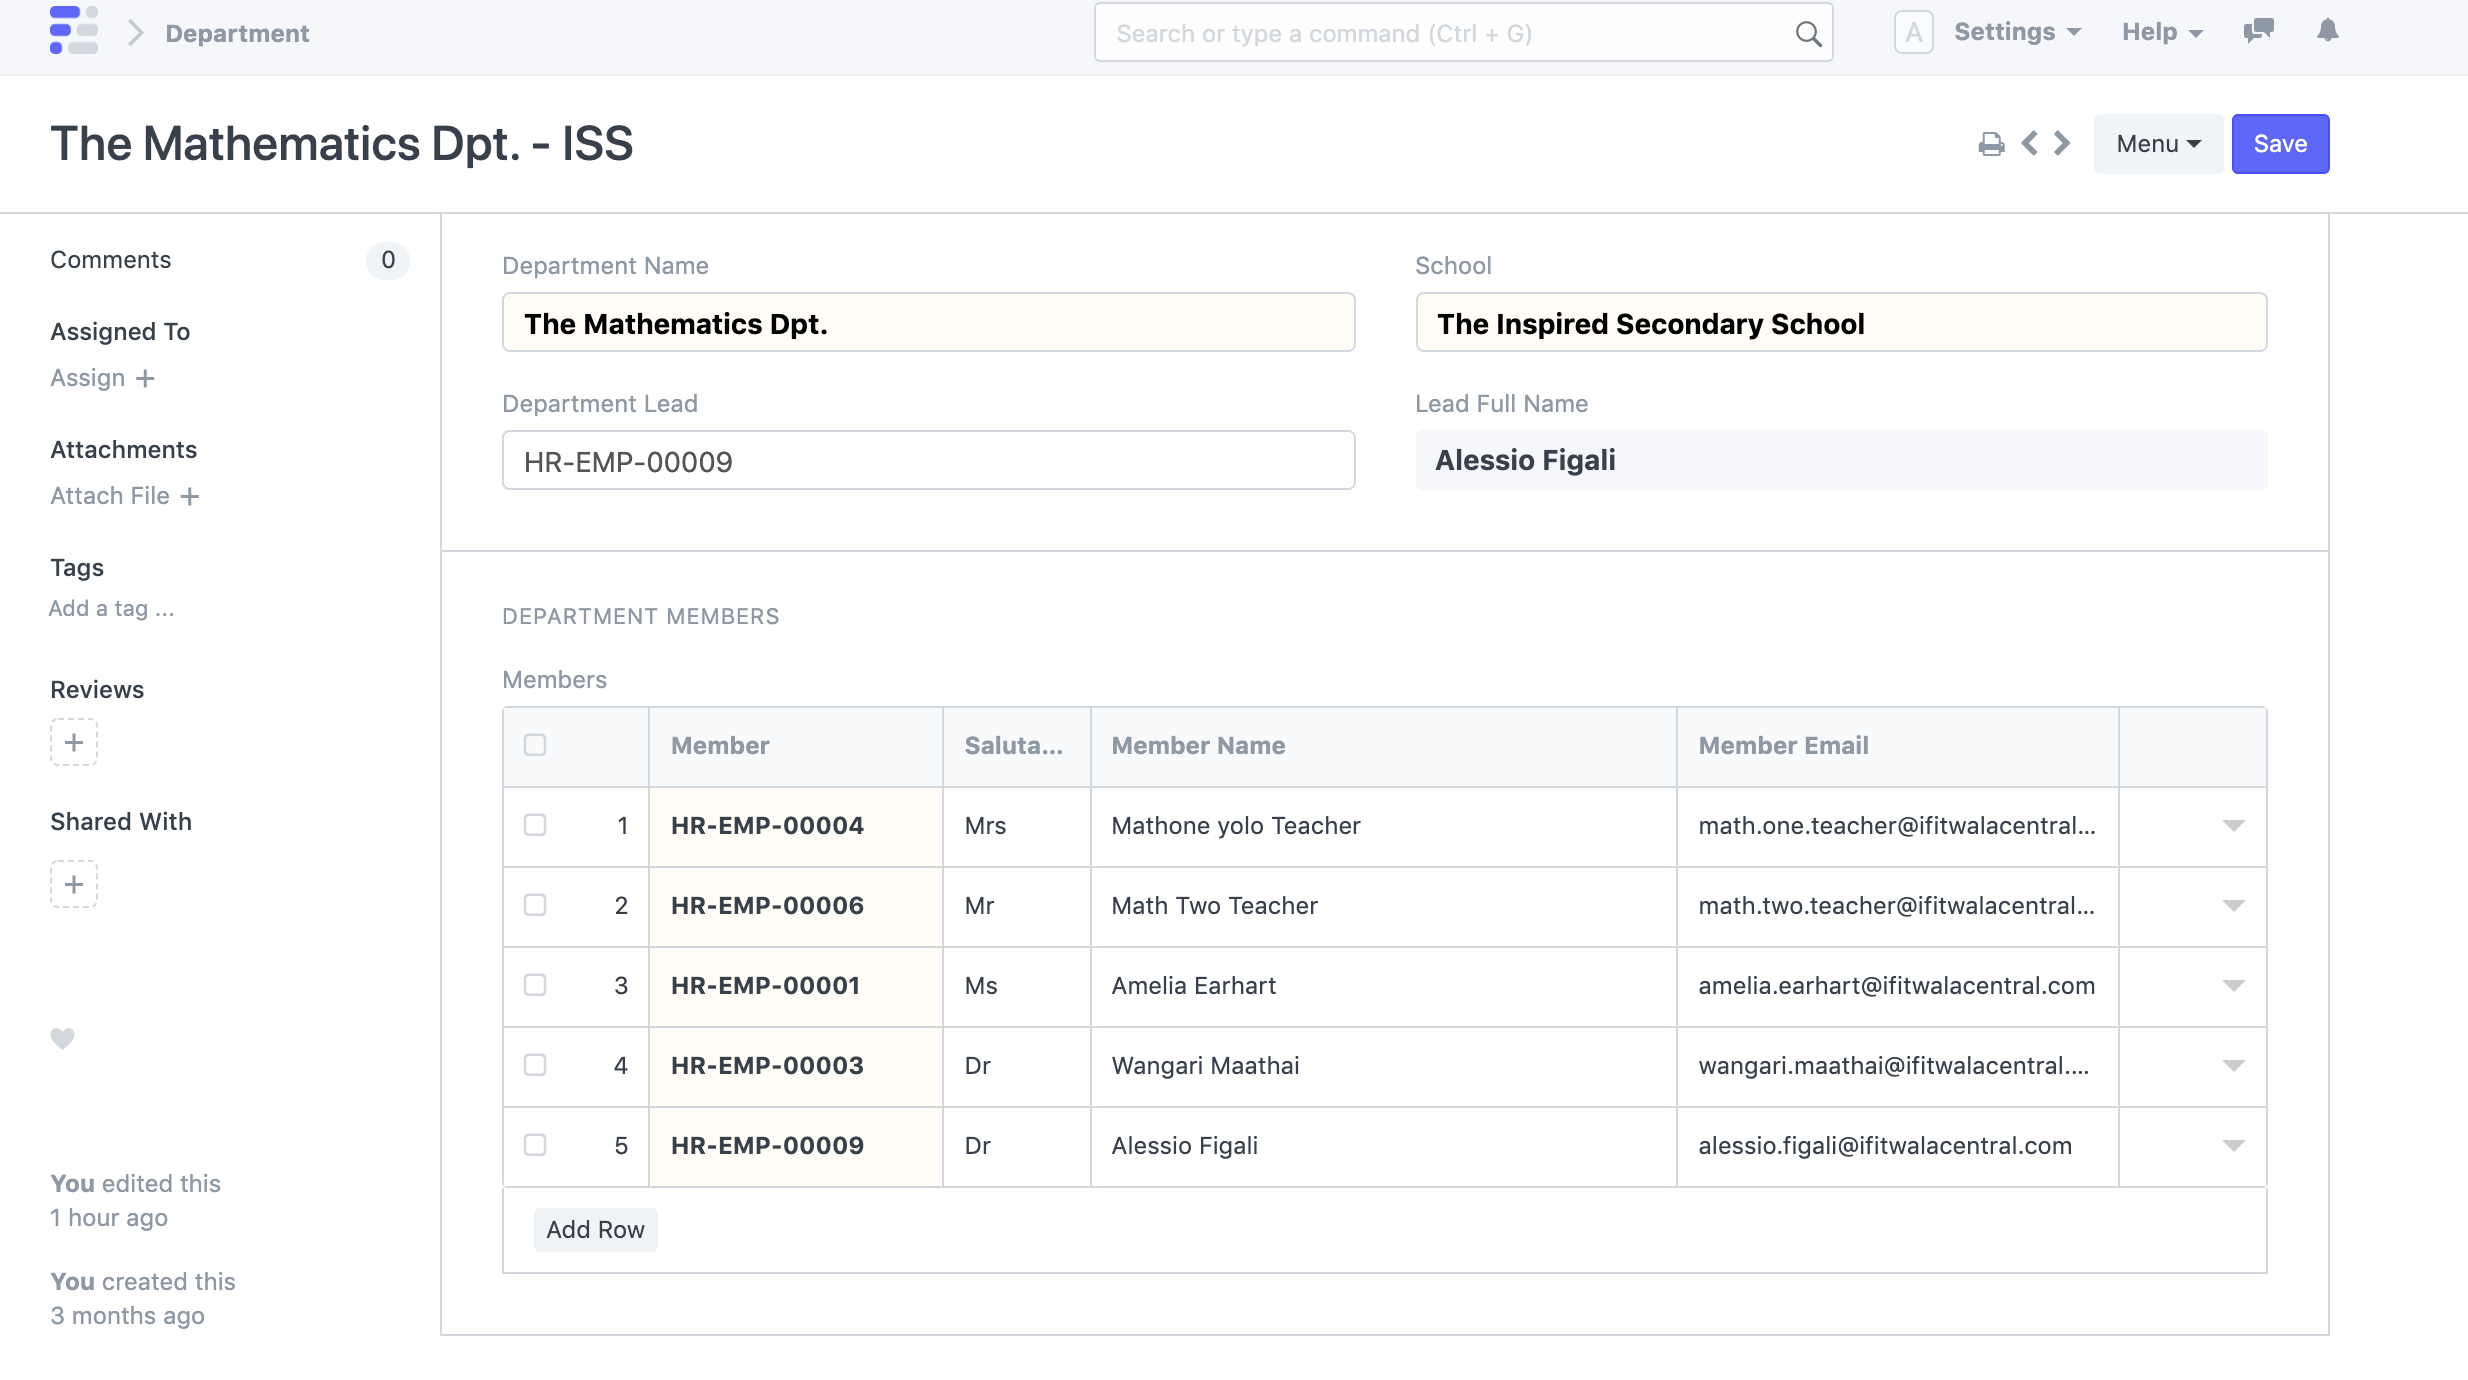
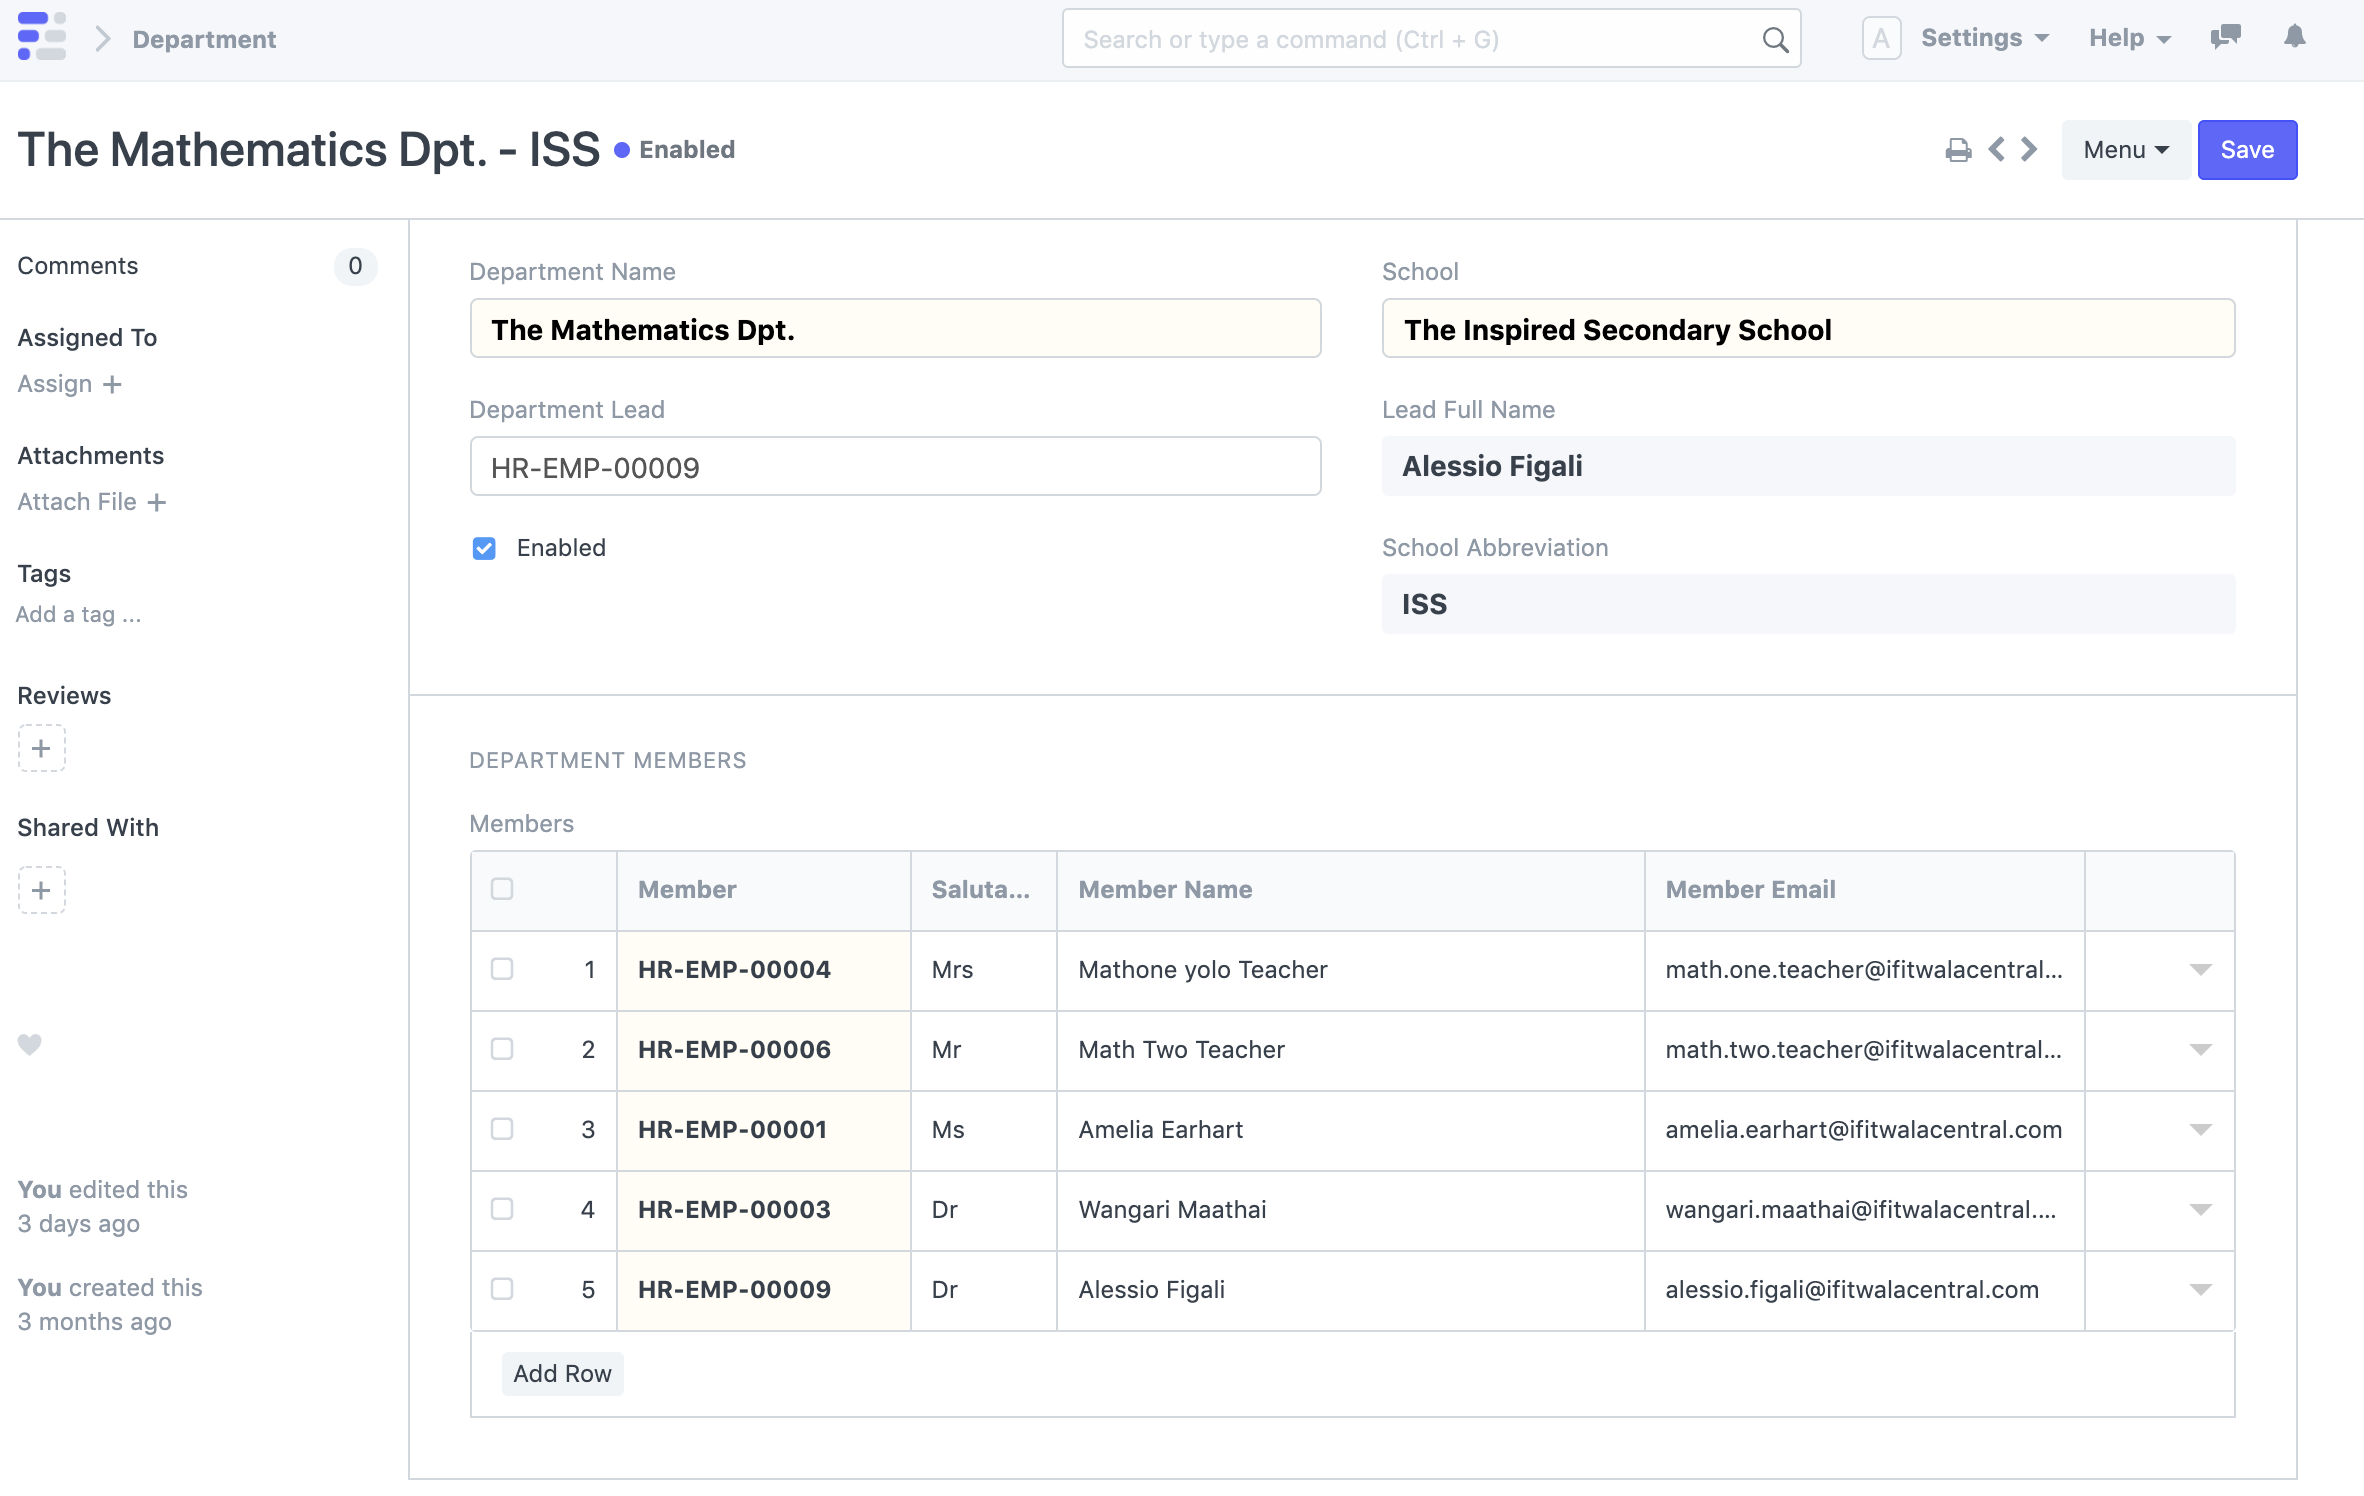
Enhanced department page

diff --git a/ifitwala_ed_documentation/www/docs/user/manual/en/education-settings/05_department.md b/ifitwala_ed_documentation/www/docs/user/manual/en/education-settings/05_department.md
@@ -3,12 +3,14 @@
 
 **A Department is a team of educators that collaborate together around a discipline (the Arts dpt. or the Math dpt.) or around a category of students (the Learning Support dpt., the Middle School dpt.)**
 
-A department can be linked to a particular section of your school but does not have to.  Usually each department has a lead.  The lead of the department has to be picked among one of the department members.  
-Anyone employee can be part of a department. A person can be part of several departments.  They just have to be added in the department member list.
+A department can be linked to a particular section of your school but does not have to.  Academic departments tend to be linked to a particular section of the school; for instance, an Arts dpt. in primary and an Arts dpt. secondary school, some other departments tend to be across sections; for instance Learning Support or Gifted and Talented. Any employee can be part of a department. Also, as it is often the cases in schools, a person can be part of several departments.  They just have to be added in the department member list. This doctype allows you to reflect the organizational structure of your school.
 
-To access the Academic Term doctype, go to:
+Usually each department has a lead.  The lead of the department has to be picked among one of the department members.  
+
+To access the Department doctype, go to:
 
 > Home > School Settings > Department  
+
 
 List View
 ![Department List View](/docs/assets/img/school-settings/department-listview.png)
@@ -16,15 +18,30 @@ List View
 Document View
 ![Department Document View](/docs/assets/img/school-settings/department-docview.png)
 
-
 # 1. Before to fill in the department
 It is preferable to fill in first the
 
 * [The School](/docs/user/manual/en/education-settings/01_school) doctype
 * [The Employee](/docs/user/manual/en/hr/01_employee.md) doctype
 
+# 2. Fields to fill in the Department doctype
 
-## 4. Validation rules and default behavior.
+In Standard View (blank).
+![Academic Term Fields in standard view](/docs/assets/img/school-settings/department-empty-docview.png)
+
+* *Department Name*: to set up the name of the department.
+* *School*: to set up which school does this department belong to.
+* *Department Lead*: to set up who is leading that department.
+* *Enabled*: By default, this box is checked.  Uncheck the box if the department is not active anymore in your school.
+* *Department Members* (child table): to add the department members.  Just the employee link is necessary.
+
+
+# 3. Documents linked to the the department
+
+* [Meeting](/docs/user/manual/en/education-settings/06_collaboration)
+* [Course](/docs/user/manual/en/schedule/01_course)
+
+## 4. Validation rules and default behavior
 Here are some of the validation rules we have put in place to ensure the integrity of the data.
 
 * unique name for department within the same school.  That means you can have 2 "Arts Dpt." but they have to be in 2 different school
@@ -34,7 +51,6 @@ Other default behavior
 
 * title is automatically created by concatenating the dpt. name and the school abbreviation
 * filtering out department members already picked to not picked twice the same person.
-
 
 
 

diff --git a/ifitwala_ed_documentation/www/docs/user/manual/en/education-settings/03_academic-term.md b/ifitwala_ed_documentation/www/docs/user/manual/en/education-settings/03_academic-term.md
@@ -25,14 +25,15 @@ It is preferable to fill in first the
 
 ## 2. Fields to fill in the Academic Term  
 
+In Standard View.
 ![Academic Term Fields in standard view](/docs/assets/img/school-settings/academic-term-fields.png)
 
 Or in quick view.
 ![Academic Term Fields in quick view](/docs/assets/img/school-settings/academic-term-fields-2.png)
 
-* *Academic Year*: a link to the Academic Year that this term belong to
+* *Academic Year*: a link to the Academic Year that this term belong to.
 * *Term Name*: the name to be given to the term.  For instance if you are having semesters as terms, you would call it S1 or S2.  If you are having quarters as terms, you could call it Q1 or Q2, etc.  You could also create a year long term for course that are year long.  
-* *Term Start Date*: the first day of your academic term
+* *Term Start Date*: the first day of your academic term.
 * *Term End Date*: the last day of your academic term.
 
 ## 3. Documents linked to Academic Term

diff --git a/ifitwala_ed_documentation/www/docs/user/manual/en/education-settings/02_academic-year.md b/ifitwala_ed_documentation/www/docs/user/manual/en/education-settings/02_academic-year.md
@@ -29,9 +29,9 @@ It is preferable to fill in first the
 Or in quick view.
 ![Academic Year Fields in quick view](/docs/assets/img/school-settings/academic-year-fields-2.png)
 
-* *Academic Year Name*: How you want to call your academic year. You would choose something like 2020-2021, or 2020 (if in Southern Hemisphere countries)
-* *Year Start Date*: the first day of your academic year
-* *Year End Date*: the last day of your academic year
+* *Academic Year Name*: How you want to call your academic year. You would choose something like 2020-2021, or 2020 (if in Southern Hemisphere countries).
+* *Year Start Date*: the first day of your academic year.
+* *Year End Date*: the last day of your academic year.
 * *School*: Your school can have several sections such as Kindergarten, Primary Schools and Secondary Schools. The Academic year of each of these sections might not totally align.  
 
 ## 3. Documents linked to Academic Year

diff --git a/ifitwala_ed_documentation/www/docs/user/manual/en/schedule/01_course.md b/ifitwala_ed_documentation/www/docs/user/manual/en/schedule/01_course.md
@@ -1,0 +1,5 @@
+<!-- add-breadcrumbs -->
+# Course
+
+
+{end}
